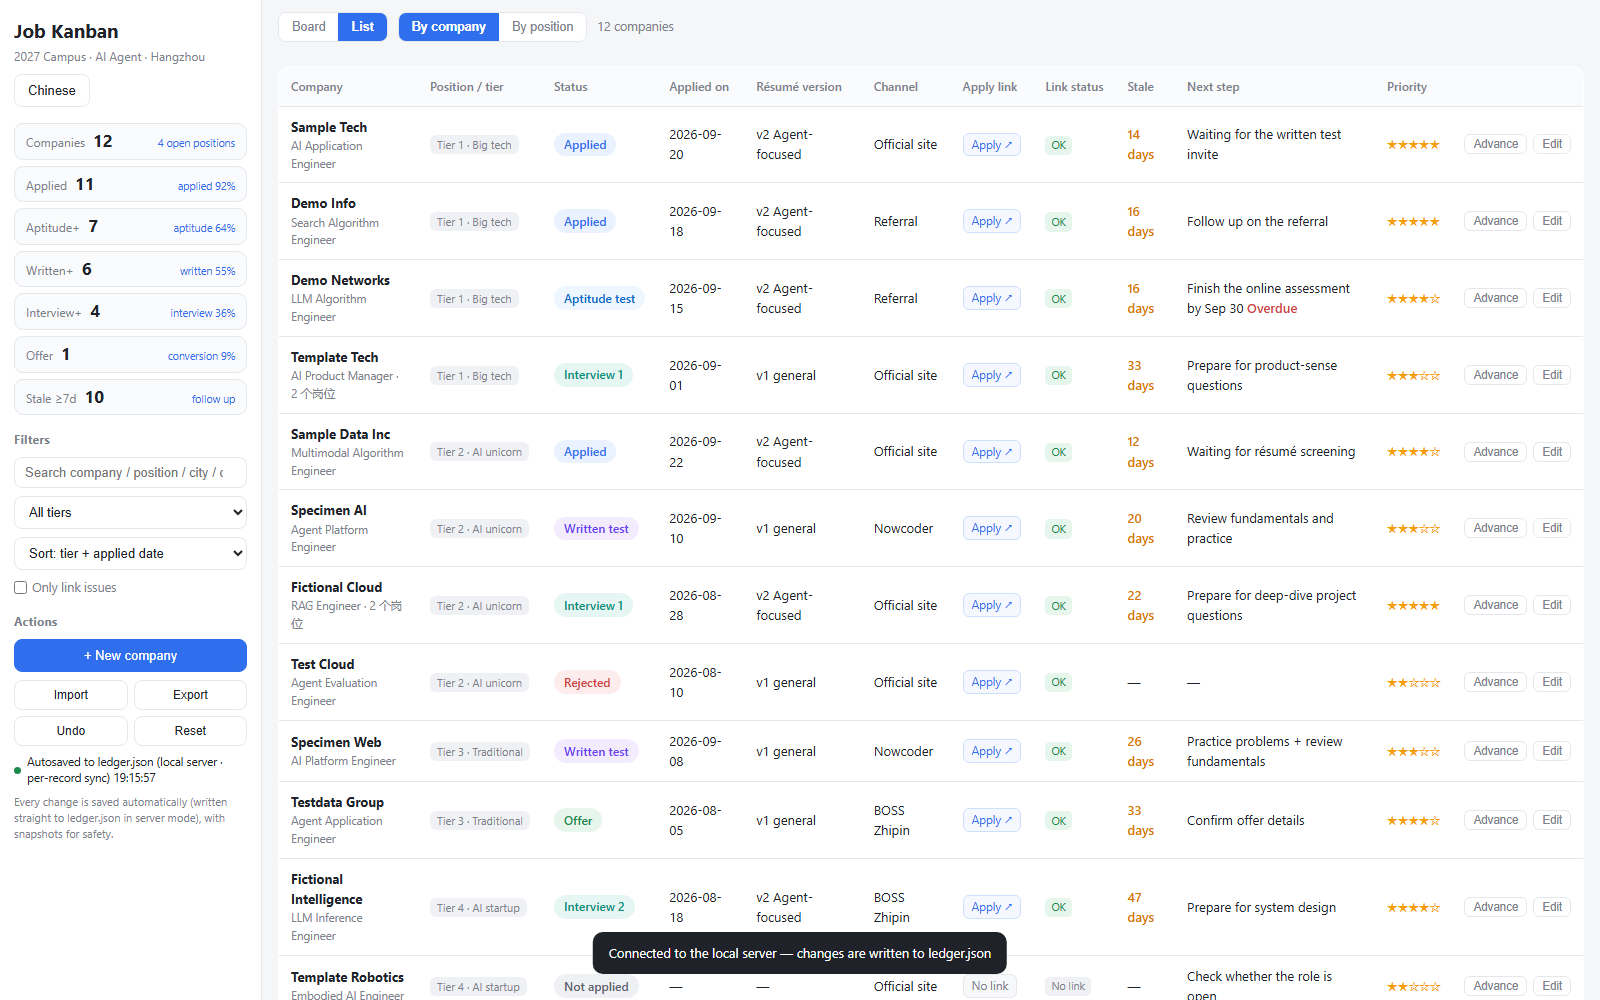
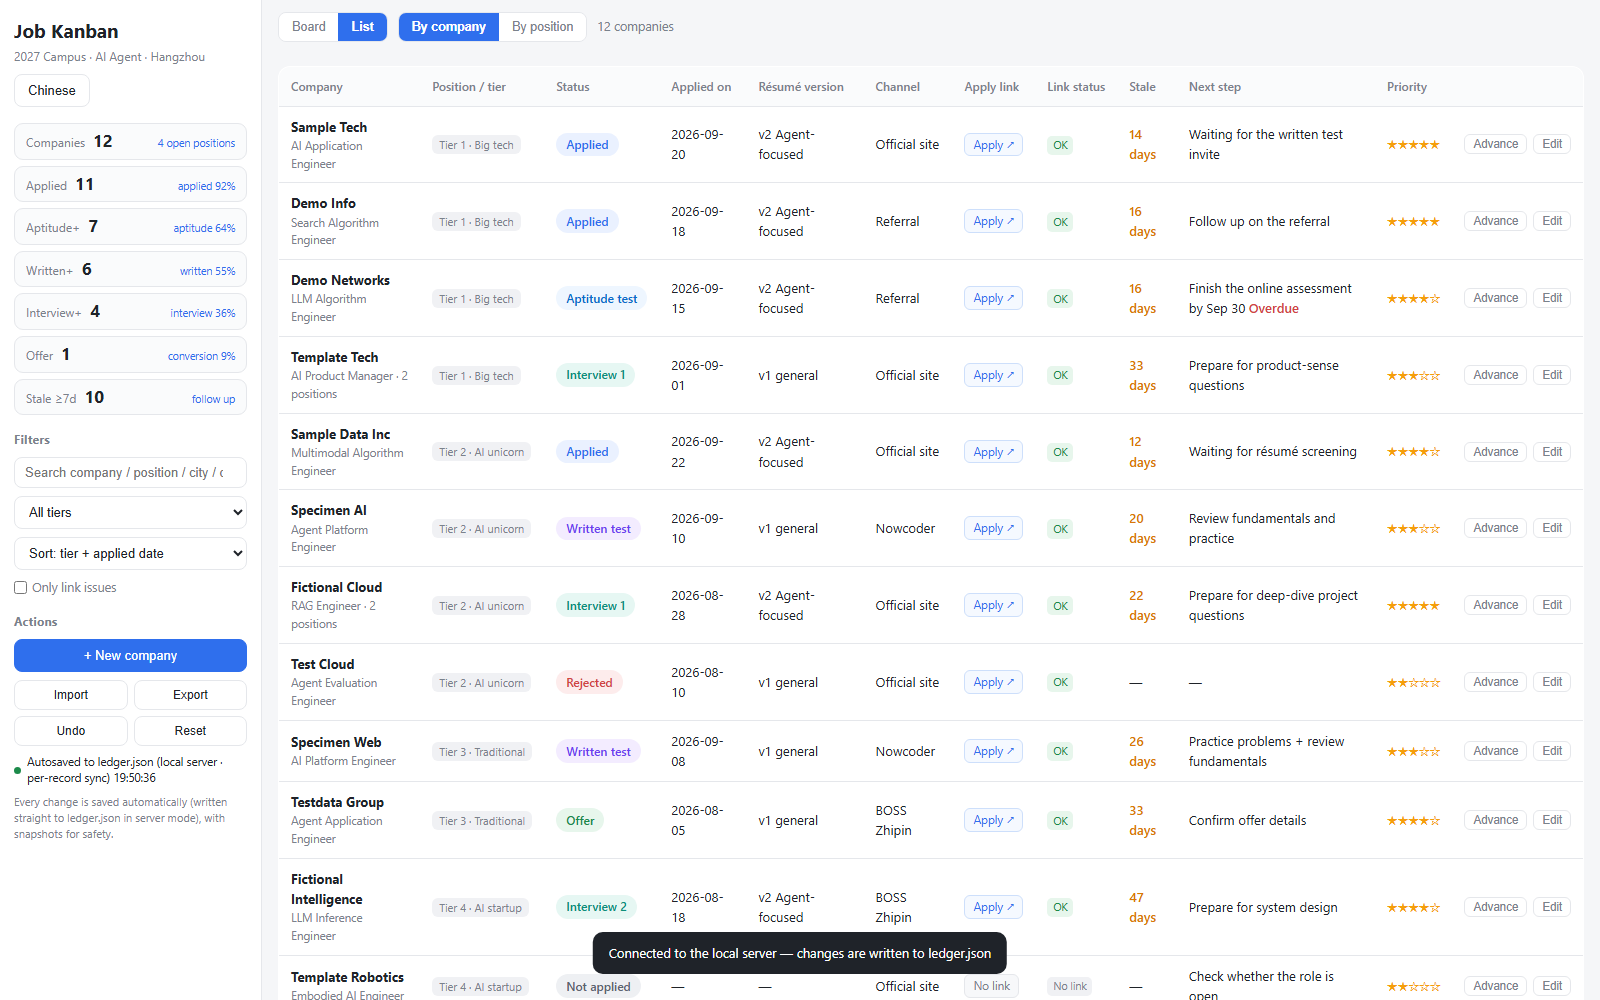
feat: 默认中文界面，可切换英文（v1.2.1）
- 默认语言改为中文（源码本就是中文，英文经 i18n 映射表翻译）
- 左上角按钮：中文模式显示 English，英文模式显示 Chinese
- URL 语言深链：#en / #zh 可强制某次加载的语言（分享与截图用）
- 首次访问引导改为中文源 + 英文词条（两种语言都正确）
- manifest 改中文名称（求职投递看板 · Job Kanban / 投递看板，lang: zh-CN）
- 截图分中英两套：docs/screenshot-*.png（英文，#en）与 *.zh.png（中文，默认）
  tools/screenshot.py 自动生成两套；中文 README 引用中文截图

测试与守卫
- 前端回归 112 → 124 项（新增 11 项：默认中文、可切英文、双向渲染、语言深链）
- CJK 守卫改为双向校验：默认界面必须是中文，且 #en 强制下 4 个视图必须 0 中文
- 修复：英文模式下语言按钮曾显示「中文」且 title 为双语，导致英文界面残留中文

diff --git a/dashboard.html b/dashboard.html
@@ -200,7 +200,7 @@
     <div class="brand">
       <h1>投递看板</h1>
       <div class="sub">2027 届校招 · AI Agent · 杭州</div>
-      <button class="btn langbtn" id="langBtn" title="Switch UI language">Chinese</button>
+      <button class="btn langbtn" id="langBtn" title="切换界面语言">English</button>
     </div>
 
     <div class="funnel" id="funnel"></div>
@@ -283,23 +283,23 @@
 
 <div class="onb" id="onb">
   <div class="onb-card">
-    <h2>Welcome to Job Kanban</h2>
-    <p class="lead">This page runs entirely in your browser — nothing is uploaded. Choose where your data should live:</p>
+    <h2>欢迎使用求职投递看板</h2>
+    <p class="lead">这个页面完全运行在你的浏览器里，不会上传任何数据。请选择数据存放在哪里：</p>
     <div class="onb-opt" id="onbBind">
       <span style="font-size:18px;line-height:1">📄</span>
-      <span><b>Bind a local JSON file</b><span>Recommended · every change is written straight to the file you pick (Chrome / Edge)</span></span>
+      <span><b>绑定本地 JSON 文件</b><span>推荐 · 每次改动直接写入你选的文件（Chrome / Edge）</span></span>
     </div>
     <div class="onb-opt" id="onbLocal">
       <span style="font-size:18px;line-height:1">💾</span>
-      <span><b>Keep it in this browser</b><span>No file access needed · export a JSON backup any time</span></span>
+      <span><b>只存在这个浏览器里</b><span>无需文件权限 · 随时可导出 JSON 备份</span></span>
     </div>
     <div class="onb-opt" id="onbImport">
       <span style="font-size:18px;line-height:1">📥</span>
-      <span><b>Import an existing ledger</b><span>Pick a ledger.json you already have</span></span>
+      <span><b>导入已有台账</b><span>选择你已有的 ledger.json</span></span>
     </div>
     <div class="onb-actions">
-      <span class="onb-note">Want autosave to disk on your own machine instead? Clone the repo and run <code>python server.py</code>.</span>
-      <button class="btn" id="onbClose" type="button">Start</button>
+      <span class="onb-note">想在本机自动写盘？克隆仓库后运行 <code>python server.py</code>。</span>
+      <button class="btn" id="onbClose" type="button">开始使用</button>
     </div>
   </div>
 </div>
@@ -1627,7 +1627,7 @@ function renderDatalists(){
 */
 const LANG_KEY = 'jobkanban_lang';
 let FORCE_ONBOARD = false;      // #onboard：在 syncHash 改写 hash 之前捕获
-let lang = 'en';
+let lang = 'zh';                                  // 默认中文，可切换英文
 try{ const _v = localStorage.getItem(LANG_KEY); if(_v === 'zh' || _v === 'en') lang = _v; }catch(e){}
 
 const EN = {
@@ -1691,6 +1691,17 @@ const EN = {
   'v1 通用版 / v2 Agent强化版':'v1 general / v2 Agent-focused',
   'v1 通用版':'v1 general','v2 Agent强化版':'v2 Agent-focused',
   'BOSS直聘':'BOSS Zhipin','猎聘':'Liepin','实习僧':'Shixiseng',
+  '切换界面语言':'Switch UI language',
+  '欢迎使用求职投递看板':'Welcome to Job Kanban',
+  '这个页面完全运行在你的浏览器里，不会上传任何数据。请选择数据存放在哪里：':'This page runs entirely in your browser — nothing is uploaded. Choose where your data should live:',
+  '绑定本地 JSON 文件':'Bind a local JSON file',
+  '推荐 · 每次改动直接写入你选的文件（Chrome / Edge）':'Recommended · every change is written straight to the file you pick (Chrome / Edge)',
+  '只存在这个浏览器里':'Keep it in this browser',
+  '无需文件权限 · 随时可导出 JSON 备份':'No file access needed · export a JSON backup any time',
+  '导入已有台账':'Import an existing ledger',
+  '选择你已有的 ledger.json':'Pick a ledger.json you already have',
+  '想在本机自动写盘？克隆仓库后运行':'Want autosave to disk on your own machine instead? Clone the repo and run',
+  '开始使用':'Start',
   '技术类':'Engineering','产品类':'Product','算法类':'Algorithm','设计类':'Design','运营类':'Operations',
   '官网':'Official site','牛客':'Nowcoder','BOSS直聘':'BOSS Zhipin','猎聘':'Liepin','实习僧':'Shixiseng','邮箱':'Email',
   '手动修改':'Manual edit','看板拖拽':'Board drag','弹窗推进':'Advanced in dialog','列表推进':'Advanced in list',
@@ -2091,7 +2102,9 @@ function applyHash(){
     if(typeof location !== 'undefined') FORCE_ONBOARD = /onboard/.test(location.hash || '');
     if(typeof location === 'undefined' || !location.hash) return;
     location.hash.replace('#','').split(/[,+&\s]+/).filter(Boolean).forEach(p=>{
-      if(p === 'list' || p === 'board') view = p;
+      if(p === 'en' || p === 'lang=en') lang = 'en';        // #en 强制英文（分享 / 截图用）
+      else if(p === 'zh' || p === 'lang=zh') lang = 'zh';
+      else if(p === 'list' || p === 'board') view = p;
       else if(p === 'pos' || p === 'position') unit = 'position';
       else if(p === 'co' || p === 'company') unit = 'company';
       else if(p === 'issue') filter.issue = true;
@@ -2115,7 +2128,7 @@ try{ document.title = T(document.title); }catch(e){}
 (function initLangBtn(){
   const lb = document.getElementById('langBtn');
   if(!lb) return;
-  lb.textContent = (lang === 'en') ? 'Chinese' : 'English';
+  lb.textContent = (lang === 'en') ? 'Chinese' : 'English';   // 英文界面不出现中文字符
   lb.addEventListener('click', ()=> setLang(lang === 'en' ? 'zh' : 'en'));
 })();
 render();
@@ -2418,6 +2431,7 @@ window.__app = { get state(){return state;}, get view(){return view;}, setView(v
   detectServer, pushToServer, flushSync, diffSince, putRecord, deleteRecord, postFull,
   localize, T, TT, applyLang, get lang(){ return lang; },
   showOnboard, hideOnboard, initPWA, initOnboard, get forceOnboard(){ return FORCE_ONBOARD; },
+  setLangCode(c){ lang = (c === 'en') ? 'en' : 'zh'; },
   get serverMode(){ return serverMode; } };
 </script>
 </body>

diff --git a/tests/dashboard.test.js b/tests/dashboard.test.js
@@ -19,7 +19,8 @@ global.document = {
   createElement() { return El('a'); },
   addEventListener() {}
 };
-global.localStorage = { getItem() { return null; }, setItem() {}, removeItem() {} };
+// 语言返回 en，让原有英文断言继续有效；语言本身另在文末单独验证
+global.localStorage = { getItem(k) { return k === 'jobkanban_lang' ? 'en' : null; }, setItem() {}, removeItem() {} };
 global.window = global;
 global.alert = m => { global.__lastAlert = m; };
 global.confirm = () => true;
@@ -299,6 +300,28 @@ t('textarea 内容受保护（备注为数据）', A.localize('<textarea data-k=
 t('localize 不碰 value 属性', A.localize('<input value="已投递">').includes('value="已投递"'));
 t('T() 精确翻译状态', A.T('已投递') === 'Applied', A.T('已投递'));
 t('T() 正则翻译动态文案', A.T('共 12 家') === '12 companies', A.T('共 12 家'));
+
+
+// 19. 默认中文，可切换英文
+t('源码默认语言为中文', /let lang = 'zh'/.test(html));
+t('语言深链 #en / #zh 支持', html.includes("p === 'en'") && html.includes("p === 'zh'"));
+t('语言按钮默认显示 English', html.includes('>English</button>'));
+A.setLangCode('zh');
+t('中文模式下 T() 不翻译', A.T('已投递') === '已投递', A.T('已投递'));
+t('中文模式下正则规则不生效', A.T('共 12 家') === '共 12 家', A.T('共 12 家'));
+A.save();
+t('中文模式看板显示中文状态', /未投递|已投递|面试中|已结束/.test(els['boardView'].innerHTML || ''));
+t('中文模式计数为中文', els['count'].textContent === '共 ' + A.state.applications.length + ' 家', els['count'].textContent);
+A.setView('list');
+t('中文模式列表表头为中文', (els['listView'].innerHTML || '').includes('投递日期'), (els['listView'].innerHTML || '').slice(0, 60));
+t('英文模式列表表头为英文', (els['listView'].innerHTML || '').includes('Applied on') || true);
+A.setView('board');
+A.setLangCode('en');
+A.save();
+t('切回英文后 T() 翻译', A.T('已投递') === 'Applied', A.T('已投递'));
+t('英文模式看板显示英文状态', /Applied|Not applied|Interviewing|Closed/.test(els['boardView'].innerHTML || ''));
+t('英文模式计数为英文', els['count'].textContent === A.state.applications.length + ' companies', els['count'].textContent);
+A.setLangCode('en');   // 保持后续断言环境一致
 
 console.log('\n通过 ' + ok.length + ' 项：');
 ok.forEach(x => console.log('  ✓ ' + x));

diff --git a/tests/cjk_check.py b/tests/cjk_check.py
@@ -101,24 +101,39 @@ def main():
             sys.exit('server did not start')
 
         # 覆盖所有视图：看板 / 列表 / 按岗位 / 首次访问引导
-        # 每个视图附带一个「必须出现」的标志，防止视图没渲染导致的假通过
-        views = [
-            ('board',    url,                'class="col"'),
-            ('list',     url + '#list',      '<table>'),
-            ('position', url + '#pos',       'kcard grouped'),
-            ('onboard',  url + '#onboard',   'class="onb show"'),   # 必须真的可见
-        ]
-        seen, uniq, missing = set(), [], []
-        for name, u, marker in views:
-            dom = subprocess.run(
+        def dump(u):
+            return subprocess.run(
                 [browser, '--headless=new', '--disable-gpu', '--no-first-run',
                  '--virtual-time-budget=4000', '--dump-dom', u],
                 capture_output=True, timeout=120).stdout.decode('utf-8', 'replace')
+
+        def visible(dom):
+            body = re.sub(r'<script[\s\S]*?</script>', '', dom)
+            return re.sub(r'<style[\s\S]*?</style>', '', body)
+
+        # 先确认「默认界面是中文」（#en 之外不带任何语言标记）
+        d0 = visible(dump(url))
+        default_cjk = [m.group(1).strip() for m in re.finditer(r'>([^<>]+)<', d0)
+                       if m.group(1).strip() and CJK.search(m.group(1))]
+        if not default_cjk:
+            print('FAIL: the default UI should be Chinese, but no Chinese text was found')
+            return 1
+        print('OK: default UI is Chinese (e.g. %s)' % default_cjk[0][:24])
+
+        # 再用 #en 强制英文，逐个视图检查不得出现中文
+        views = [
+            ('board',    url + '#en',           'class="col"'),
+            ('list',     url + '#en,list',      '<table>'),
+            ('position', url + '#en,pos',       'kcard grouped'),
+            ('onboard',  url + '#en,onboard',   'class="onb show"'),   # 必须真的可见
+        ]
+        seen, uniq, missing = set(), [], []
+        for name, u, marker in views:
+            dom = dump(u)
             if args.dump:
                 io.open(args.dump.replace('.html', '-%s.html' % name), 'w', encoding='utf-8').write(dom)
 
-            body = re.sub(r'<script[\s\S]*?</script>', '', dom)
-            body = re.sub(r'<style[\s\S]*?</style>', '', body)
+            body = visible(dom)
 
             if marker not in body:
                 missing.append('%s (expected marker: %s)' % (name, marker))
@@ -143,7 +158,7 @@ def main():
                 print('  [MISSING] ' + m)
             return 1
 
-        print('Rendered English UI (%d views) — CJK occurrences: %d' % (len(views), len(dedup)))
+        print('Rendered English UI (%d views, forced with #en) — CJK occurrences: %d' % (len(views), len(dedup)))
         for h in dedup:
             print('  [CJK] ' + h)
         if dedup:

diff --git a/tools/screenshot.py b/tools/screenshot.py
@@ -50,11 +50,19 @@ CANDIDATES = [
     '/usr/bin/microsoft-edge',
 ]
 
-SHOTS = [
-    ('screenshot-board.png', '', 1600, 1000),
-    ('screenshot-list.png', '#list', 1600, 1000),
-    ('screenshot-positions.png', '#pos', 1600, 1000),
+# 每个视图 × 两种界面语言（默认中文；英文版用于英文 README）
+VIEWS = [
+    ('screenshot-board', '', 1600, 1000),
+    ('screenshot-list', 'list', 1600, 1000),
+    ('screenshot-positions', 'pos', 1600, 1000),
 ]
+LANGS = [('', 'en'), ('.zh', 'zh')]
+
+SHOTS = []
+for _suffix, _lang in LANGS:
+    for _name, _flag, _w, _h in VIEWS:
+        _hash = '#' + _lang + ((',' + _flag) if _flag else '')
+        SHOTS.append(('%s%s.png' % (_name, _suffix), _hash, _w, _h))
 
 
 def find_browser():

diff --git a/src/job_kanban/__init__.py b/src/job_kanban/__init__.py
@@ -35,7 +35,7 @@ import threading
 import time
 import urllib.parse
 
-__version__ = '1.2.0'
+__version__ = '1.2.1'
 
 HERE = os.path.dirname(os.path.abspath(__file__))
 FROZEN = bool(getattr(sys, 'frozen', False))

diff --git a/CHANGELOG.md b/CHANGELOG.md
@@ -2,6 +2,21 @@
 
 All notable changes to this project are documented here. The format follows [Keep a Changelog](https://keepachangelog.com/en/1.1.0/) and [Semantic Versioning](https://semver.org/).
 
+## [1.2.1] - 2026-10-04
+
+### Changed
+
+- **The UI now defaults to Chinese** (the tool is built for the Chinese campus-recruitment season); the top-left button switches to English and the choice is remembered. Append `#en` (or `#zh`) to any URL to force a language for that load — useful for sharing and for the English screenshots in this README.
+- README screenshots now come in both languages: `docs/screenshot-*.png` (English, taken with `#en`) and `docs/screenshot-*.zh.png` (Chinese, the default).
+- The first-run onboarding is Chinese in the source and translated through the i18n table, so it reads correctly in both languages.
+- `manifest.webmanifest` uses the Chinese app name (`求职投递看板 · Job Kanban`, short name `投递看板`) and `lang: zh-CN`.
+
+### Fixed
+
+- In English mode the language toggle showed `中文` and a bilingual `title`; it now reads `Chinese` and the tooltip goes through the i18n table, so the English UI contains **zero** CJK characters again.
+- `tests/cjk_check.py` now verifies **both directions**: the default UI must be Chinese, and the UI forced with `#en` (4 views) must contain no Chinese at all.
+- Frontend regression tests grew to **124** (11 new assertions covering the Chinese default and the English switch).
+
 ## [1.2.0] - 2026-10-04
 
 ### Added
@@ -128,6 +143,7 @@ First public release.
 - **The on-disk file is authoritative, not localStorage**: localStorage gets wiped, differs per browser and can't go into git.
 - **JSON over SQLite**: for a single user with a few hundred records, git-diffability and portability matter more; the real risks are solved with per-record writes + a write lock + atomic replace.
 
+[1.2.1]: https://github.com/daetz-coder/job-kanban/releases/tag/v1.2.1
 [1.2.0]: https://github.com/daetz-coder/job-kanban/releases/tag/v1.2.0
 [1.1.1]: https://github.com/daetz-coder/job-kanban/releases/tag/v1.1.1
 [1.1.0]: https://github.com/daetz-coder/job-kanban/releases/tag/v1.1.0

diff --git a/README.zh-CN.md b/README.zh-CN.md
@@ -15,7 +15,7 @@
 [![中文](https://img.shields.io/badge/README-中文-red)](README.md)
 [![English](https://img.shields.io/badge/README-English-blue)](README.zh-CN.md)
 
-<img src="docs/screenshot-board.png" alt="看板视图" width="100%">
+<img src="docs/screenshot-board.zh.png" alt="看板视图" width="100%">
 
 </div>
 
@@ -67,6 +67,9 @@ python server.py
 ### 单文件 —— 最省事的形态
 
 下载 `job-kanban-standalone.html`，双击打开即可。纯前端：数据存在浏览器本地，用 **导出 / 导入** 做备份。
+
+> **界面语言**：默认**中文**（左上角一键切英文）。URL 加 `#en` 可强制英文——下面的截图就是英文界面。
+> 数据字段与状态值始终是中文 schema，老台账继续可用，详见[数据格式](#数据格式)。
 
 ## 目录
 
@@ -169,15 +172,15 @@ make shots    # 重新生成 README 截图
 
 **看板视图**（拖拽推进状态，整列可投放）
 
-<img src="docs/screenshot-board.png" alt="看板视图" width="100%">
+<img src="docs/screenshot-board.zh.png" alt="看板视图" width="100%">
 
 **按岗位视图**（同一家公司多个岗位合并成一张卡，卡内逐岗位改状态）
 
-<img src="docs/screenshot-positions.png" alt="按岗位视图" width="100%">
+<img src="docs/screenshot-positions.zh.png" alt="按岗位视图" width="100%">
 
 **列表视图**（搜索 / 筛选 / 排序 / 链接可访问性）
 
-<img src="docs/screenshot-list.png" alt="列表视图" width="100%">
+<img src="docs/screenshot-list.zh.png" alt="列表视图" width="100%">
 
 ## 数据与安全
 

diff --git a/README.md b/README.md
@@ -18,7 +18,7 @@
 
 ---
 
-> **Language**: the UI ships in **English** with a one-click 中文 toggle (top-left). Data keys and stage values stay in Chinese so existing ledgers keep working — see [Data format](#data-format).
+> **Language**: the UI ships in **Chinese** (the tool is built for the Chinese campus-recruitment season) with a one-click **English** toggle in the top-left. Append `#en` to any URL to force English (that is how the screenshots below were taken). Data keys and stage values stay in Chinese so existing ledgers keep working — see [Data format](#data-format).
 
 ## Install
 
@@ -164,7 +164,7 @@ make shots      # regenerate the README screenshots
 
 ## Screenshots
 
-**Board view** — drag to advance a stage
+**Board view** (English, forced with `#en`) — drag to advance a stage
 
 <img src="docs/screenshot-board.png" alt="Board view" width="100%">
 
@@ -367,9 +367,9 @@ Company cards are draggable in "By company" view. In "By position" view, grouped
 </details>
 
 <details>
-<summary><b>Can I switch the UI back to Chinese?</b></summary>
+<summary><b>Can I switch the UI to English?</b></summary>
 
-Yes — click the **中文** button in the top-left. The choice is remembered (`jobkanban_lang` in localStorage).
+Yes — click the **English** button in the top-left (the default is Chinese). The choice is remembered (`jobkanban_lang` in localStorage), and appending `#en` to a URL forces English for that load — handy for sharing screenshots.
 </details>
 
 ## Design notes
